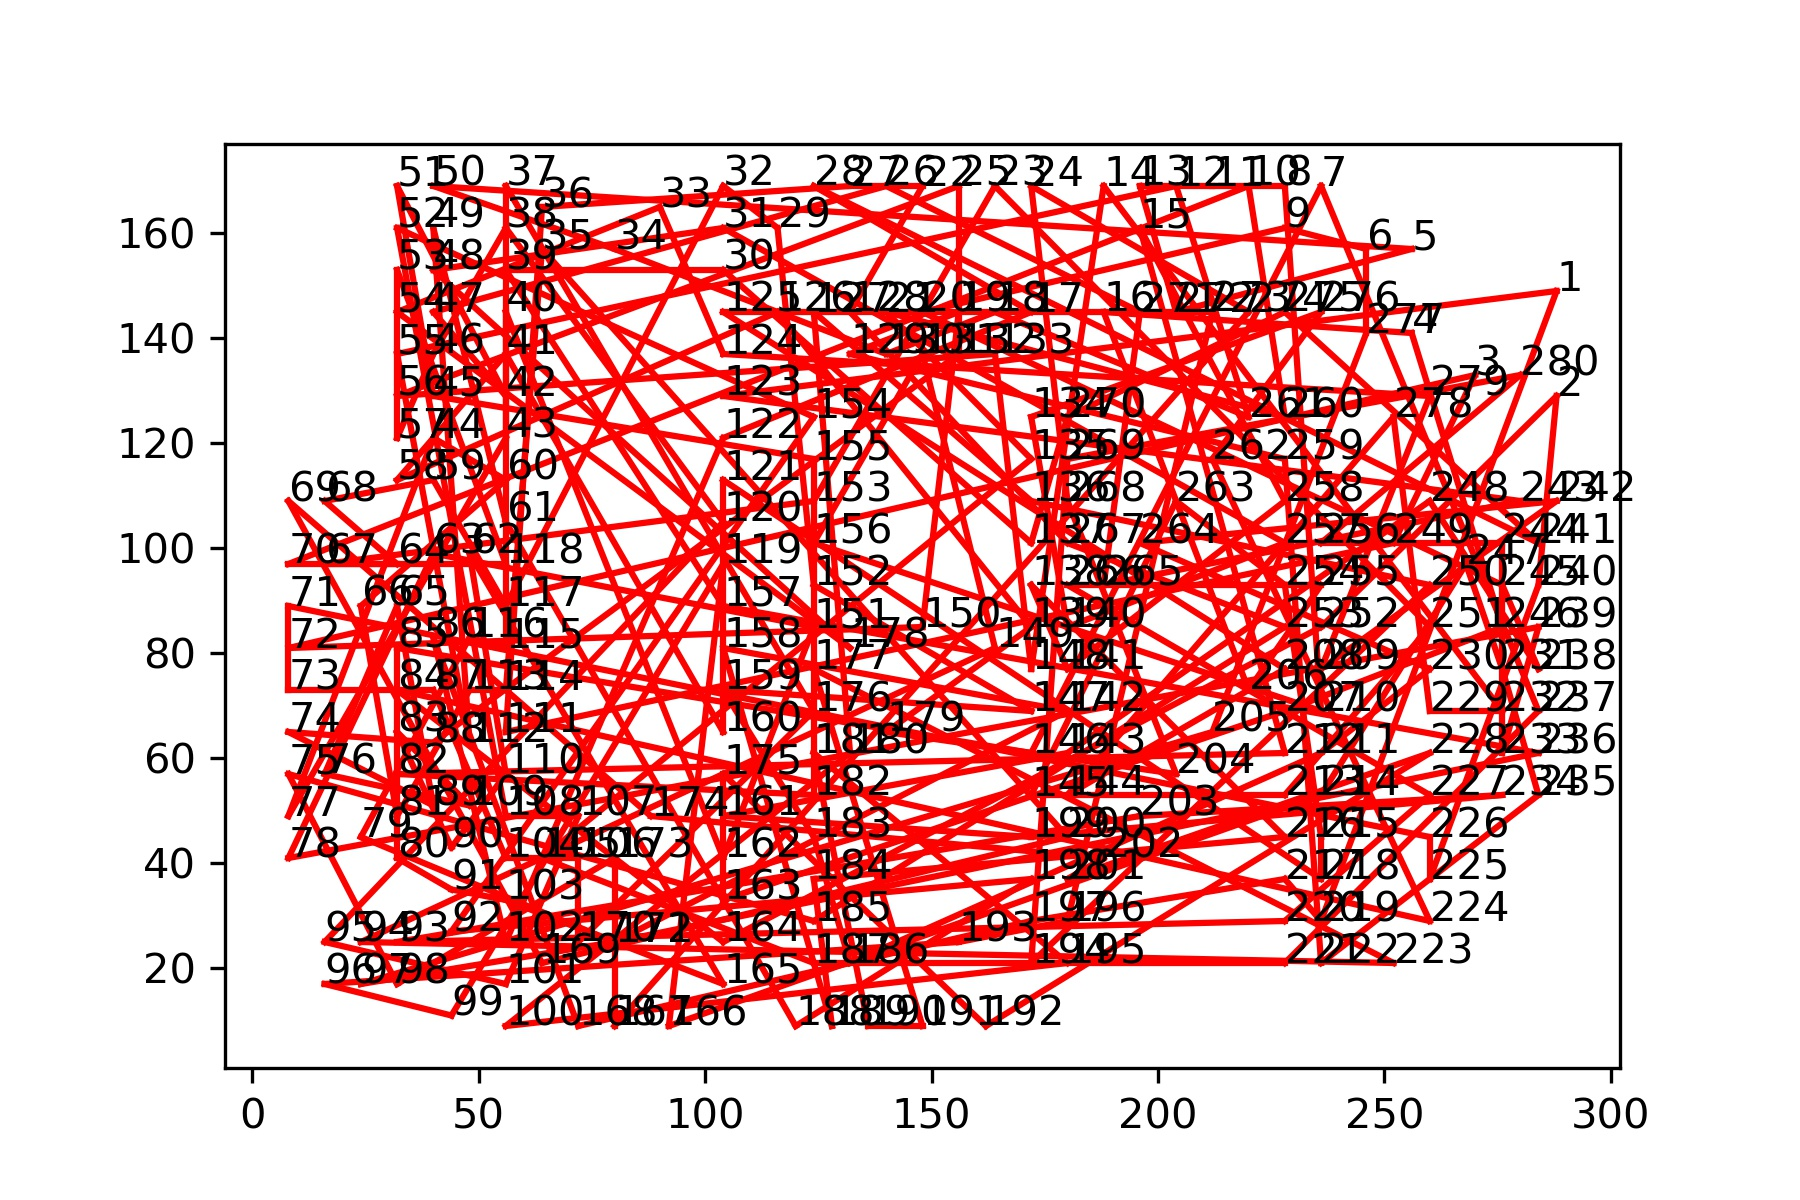
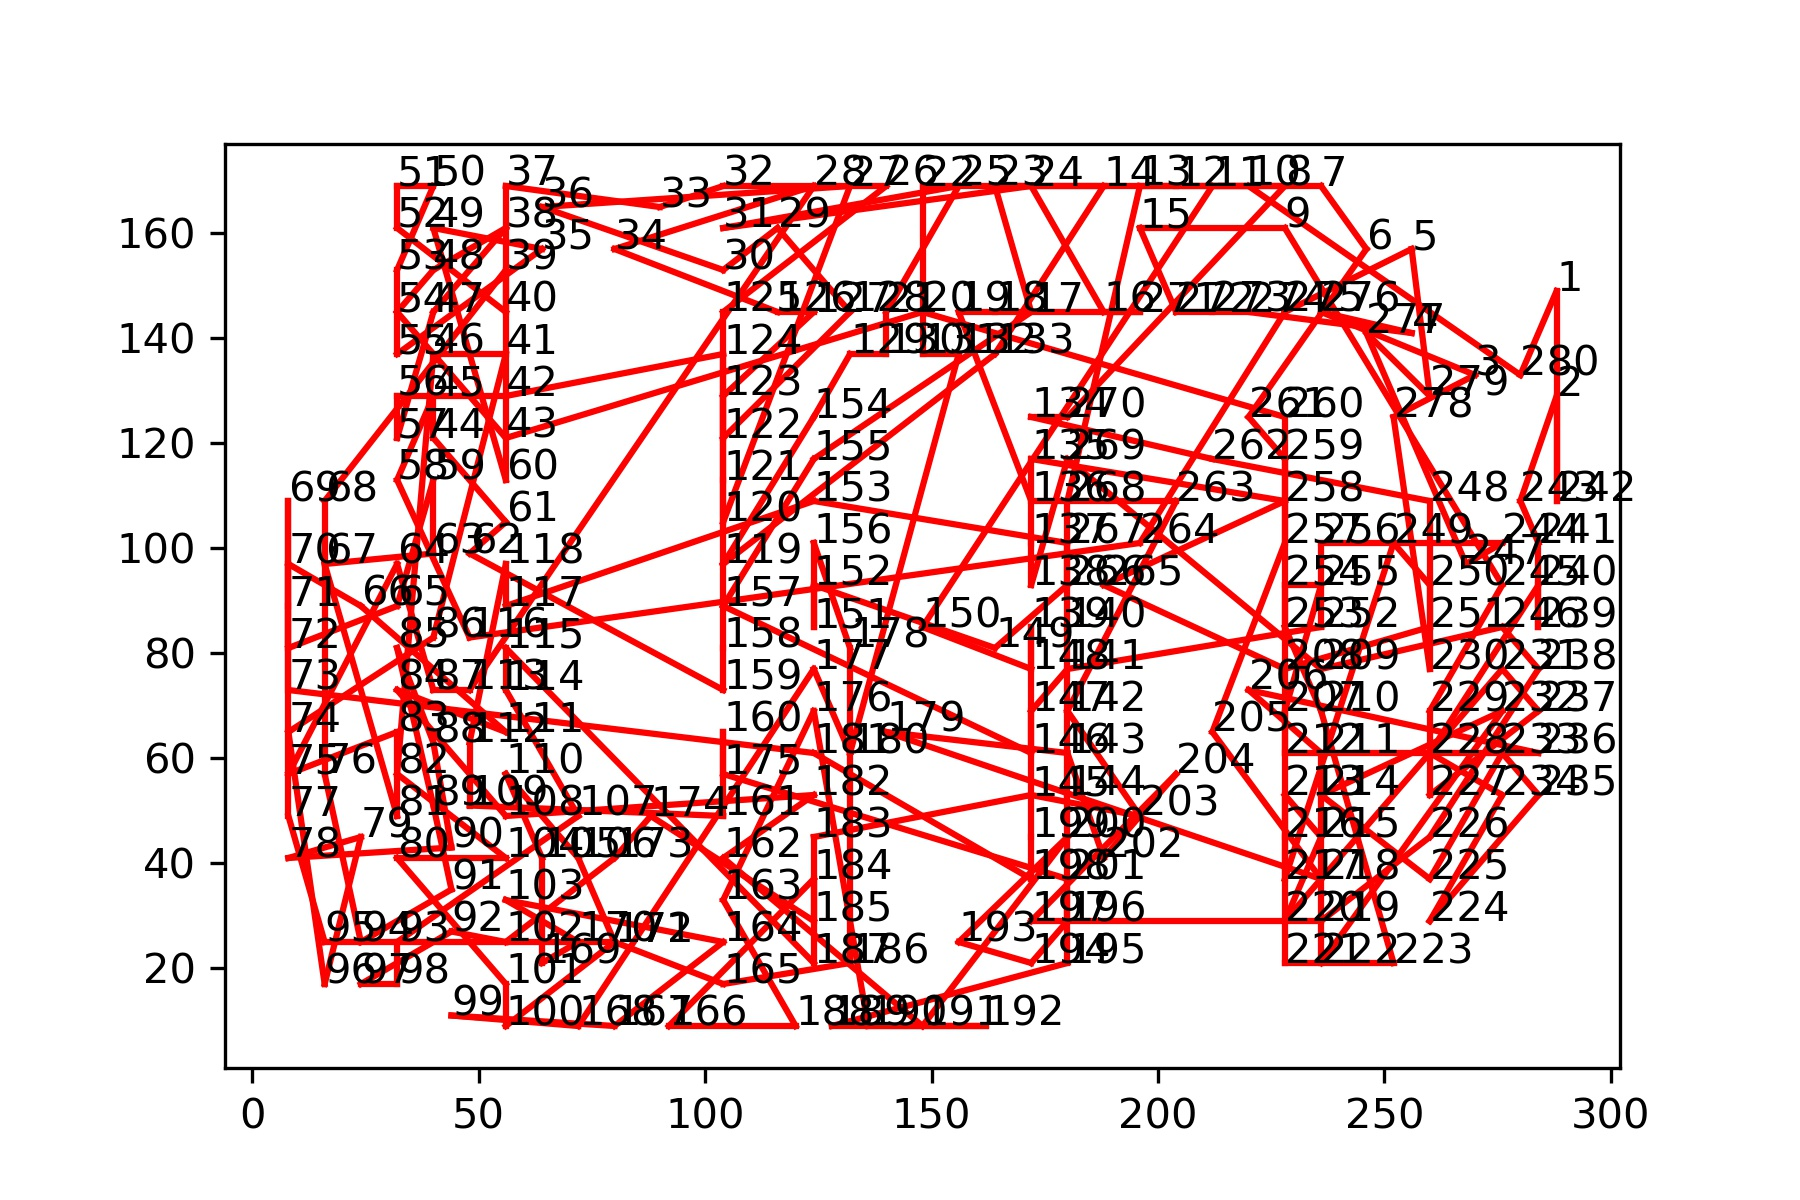
final commit

Changed region(s): [[0.1556, 0.1542, 0.8711, 0.8633]]

diff --git a/SenneBakker_13918079_WiebeTimmers_11298294_Assignment3.py b/SenneBakker_13918079_WiebeTimmers_11298294_Assignment3.py
@@ -209,13 +209,13 @@ ITS = 10000
 
 # Cooling scheme parameters
 T0 = 1.0
-ALPHA_EXP_MULTI_COOL = 0.95
+ALPHA_EXP_MULTI_COOL = 0.85
 ALPHA_LOG_MULTI_COOL = 5
 ALPHA_QUAD_MULTI_COOL = 0.95
 SAMPLE_ITS = 10   # we test every method with param setting sample_Its times
 
 # Decide what to run:
-simulation_process = False
+simulation_process = True
 plotting = True
 stat_testing = True
 
@@ -240,7 +240,7 @@ if __name__ == '__main__':
             print('\nPerforming SA with cooling scheme: %s' % ts)
             for i in range(SAMPLE_ITS):
                 path, distance_list = simulation(path_init, dist_cities, ITS, temp_scheme=ts)
-                #plot_path(path, df_cities, ts)
+                plot_path(path, df_cities, ts)
                 distances[ts].append(distance_list)
                 paths[ts].append(path)
         file_to_write = open("results.pickle", "wb")
